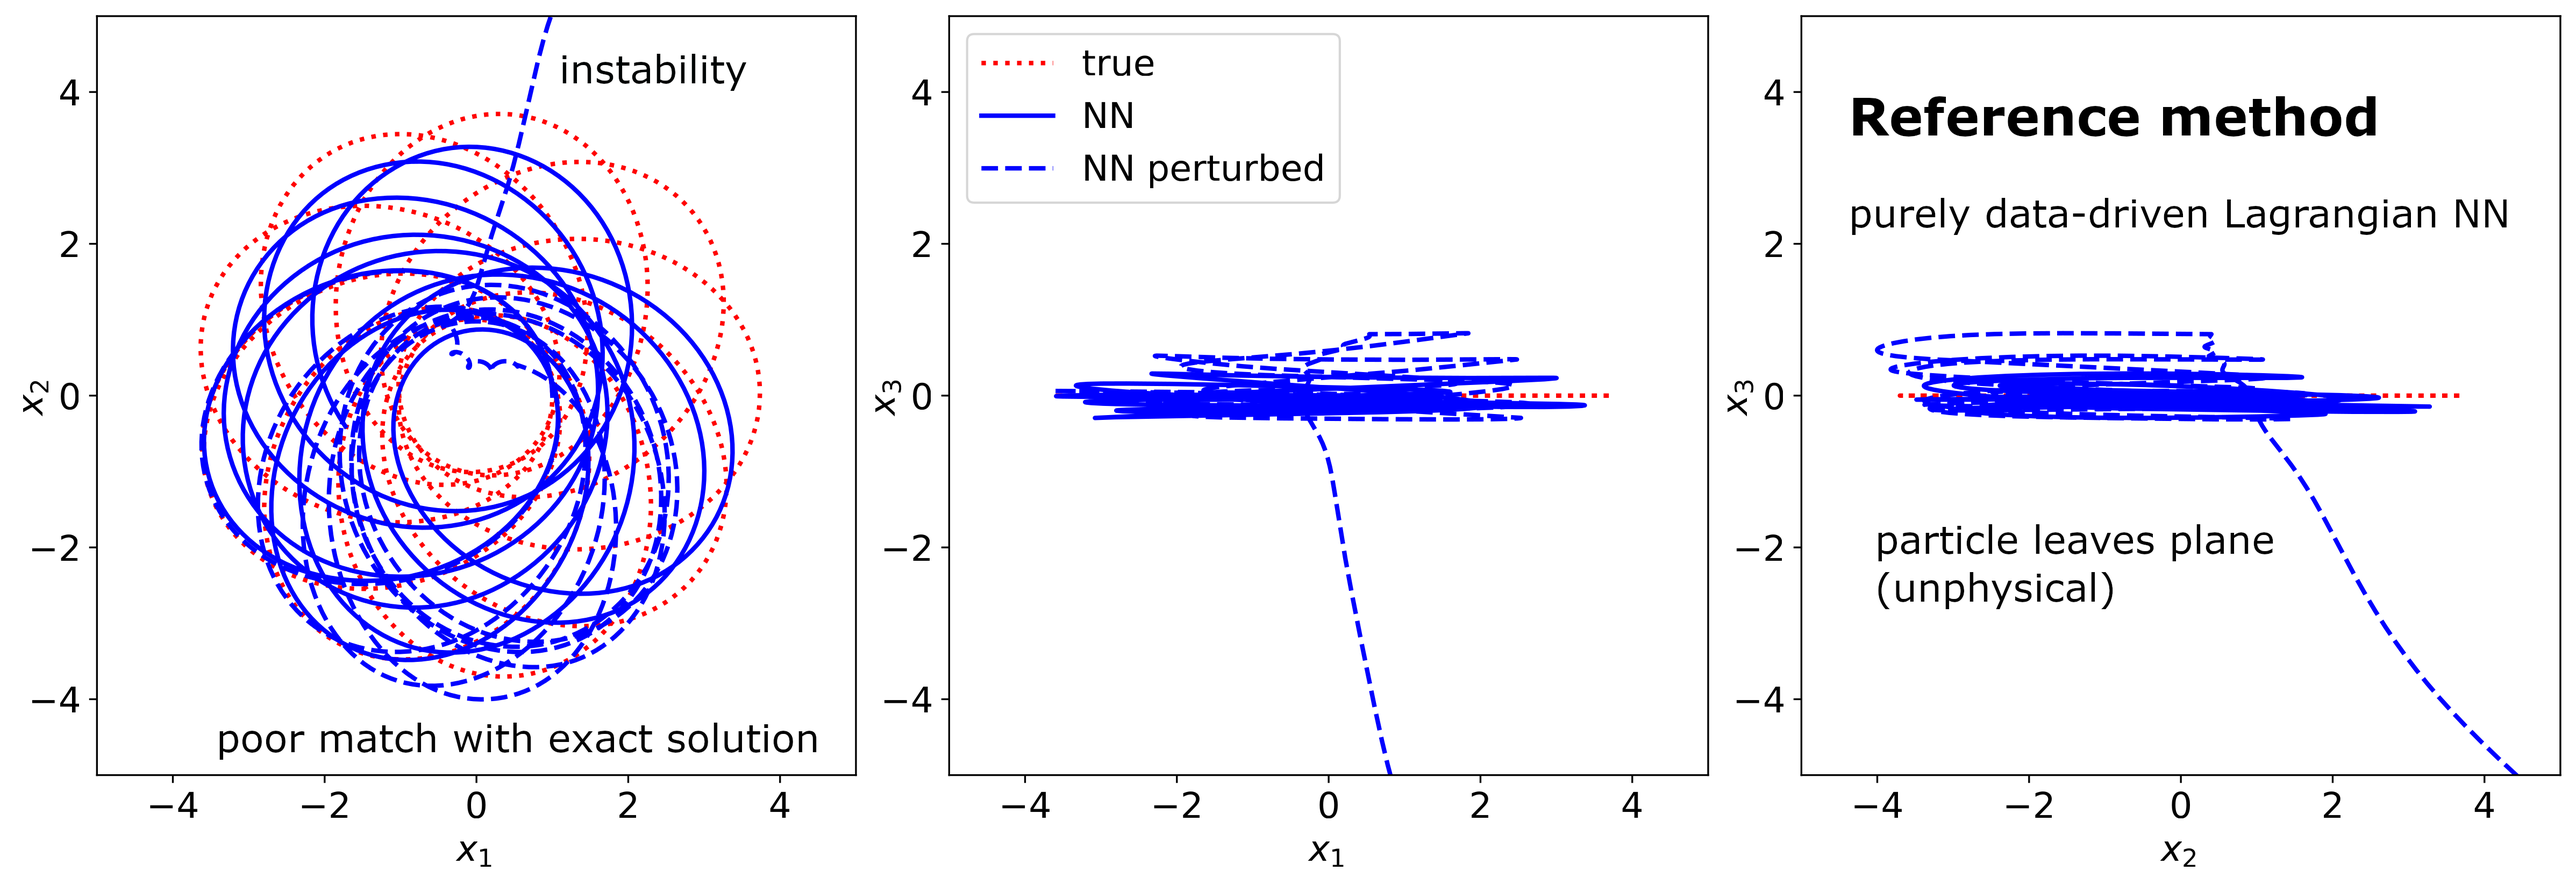
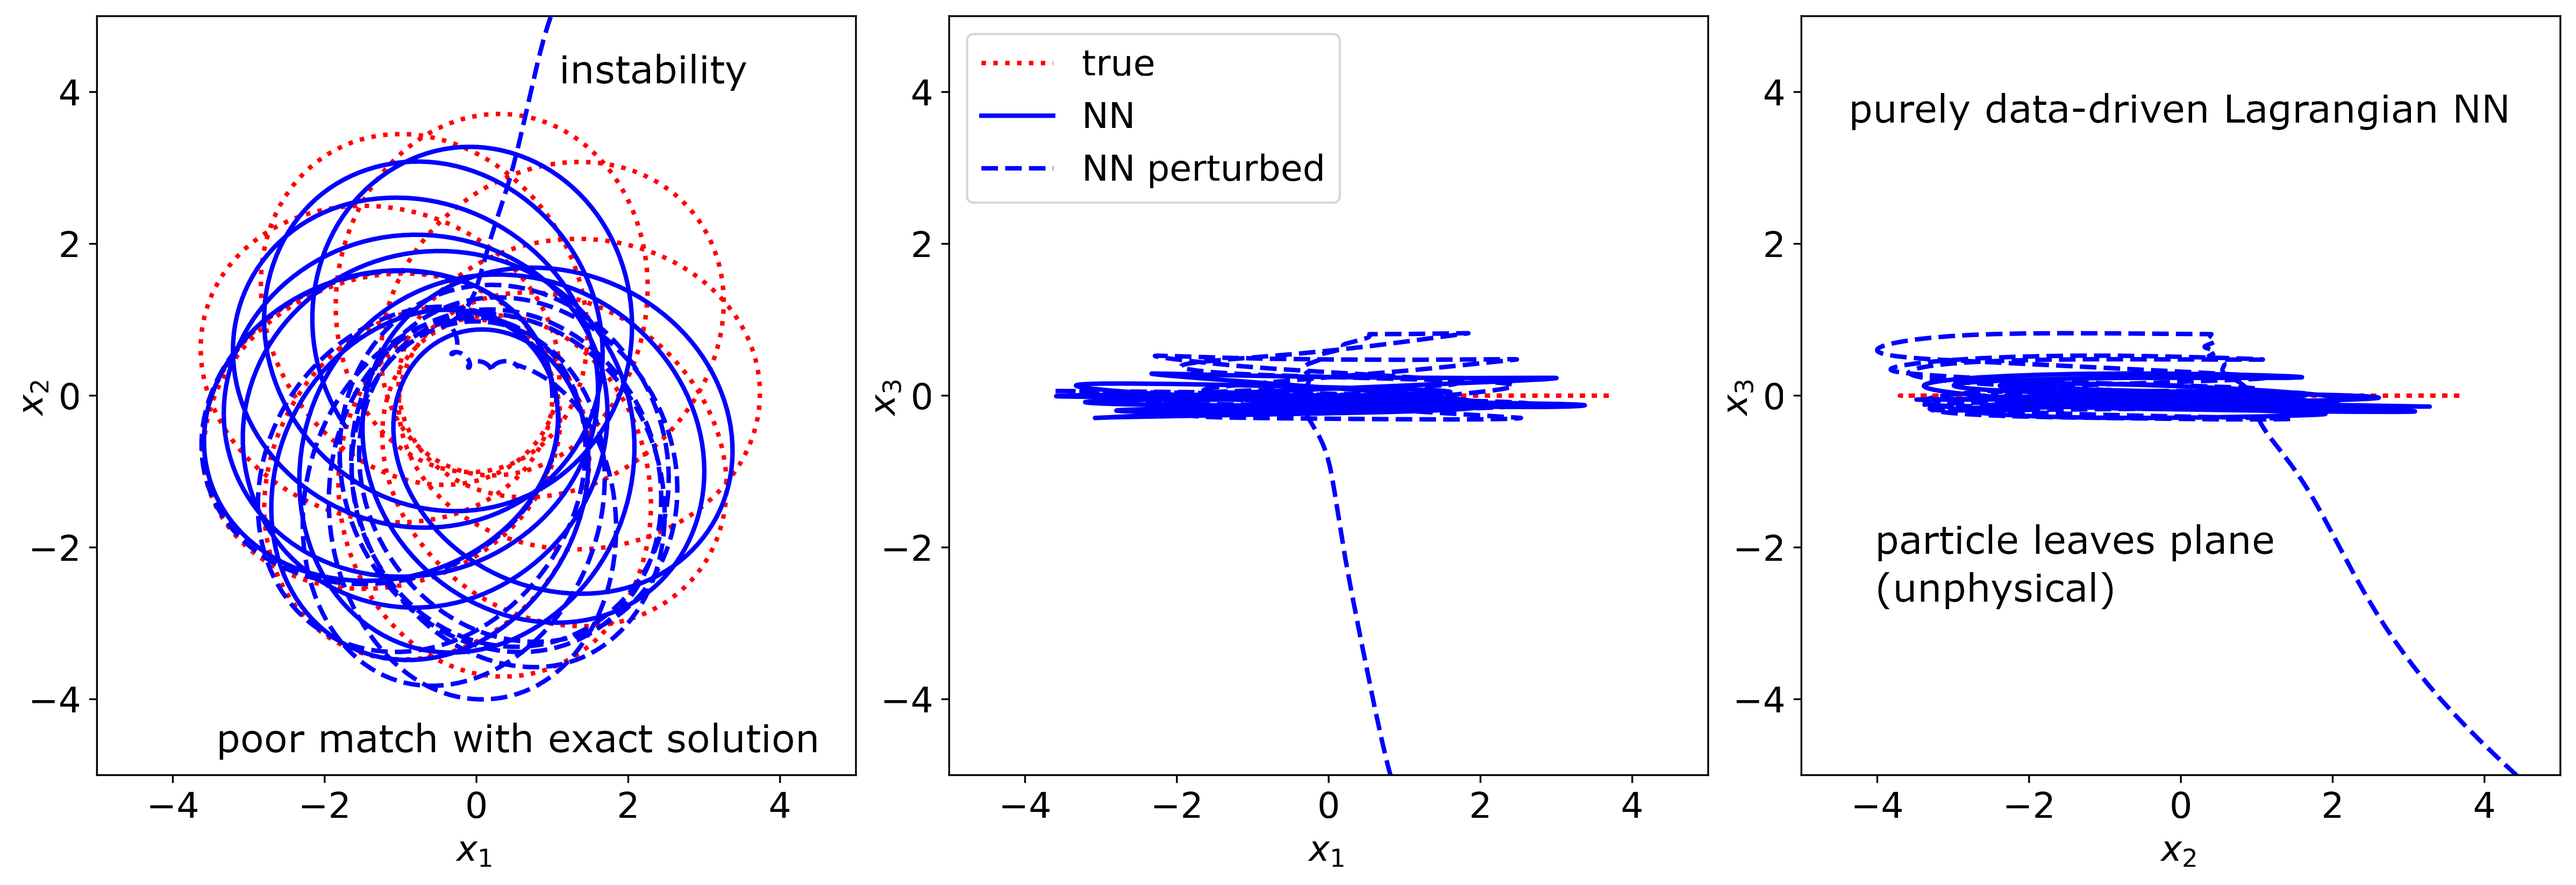
Made figure clearer

Changed region(s): [[0.7153, 0.093, 0.9641, 0.1549], [0.7153, 0.2169, 0.9952, 0.2789]]

diff --git a/README.md b/README.md
@@ -21,7 +21,10 @@ End-to-end experiments evaluate the impact of conservation constraints on model 
 
 In contrast to a purely data-driven Lagrangian neural network (bottom), our new method (top) is stable and matches the exact solution. The solution is physical in the sense that the trajectory lies in a fixed plane.
 
+#### Our method
 ![Our method (Lagrangian NN with built-in conservation laws)](figures/trajectories_schwarzschild_rot.png)
+
+#### Reference method
 ![Reference method (data-driven Lagrangian NN)](figures/trajectories_schwarzschild.png)
 
 The figures (taken from [our paper](https://arxiv.org/abs/2209.11661)) shows the simulation of a particle trajectory in a radially symmetric Schwarzschild metric.
